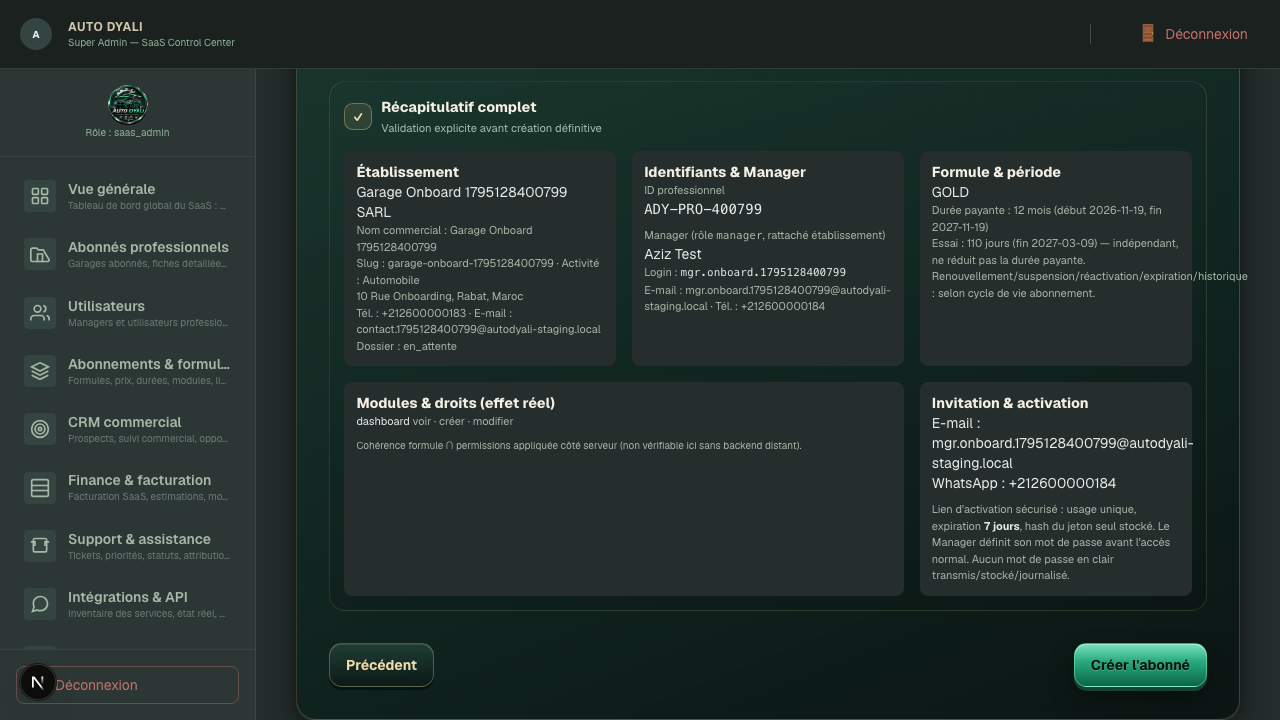
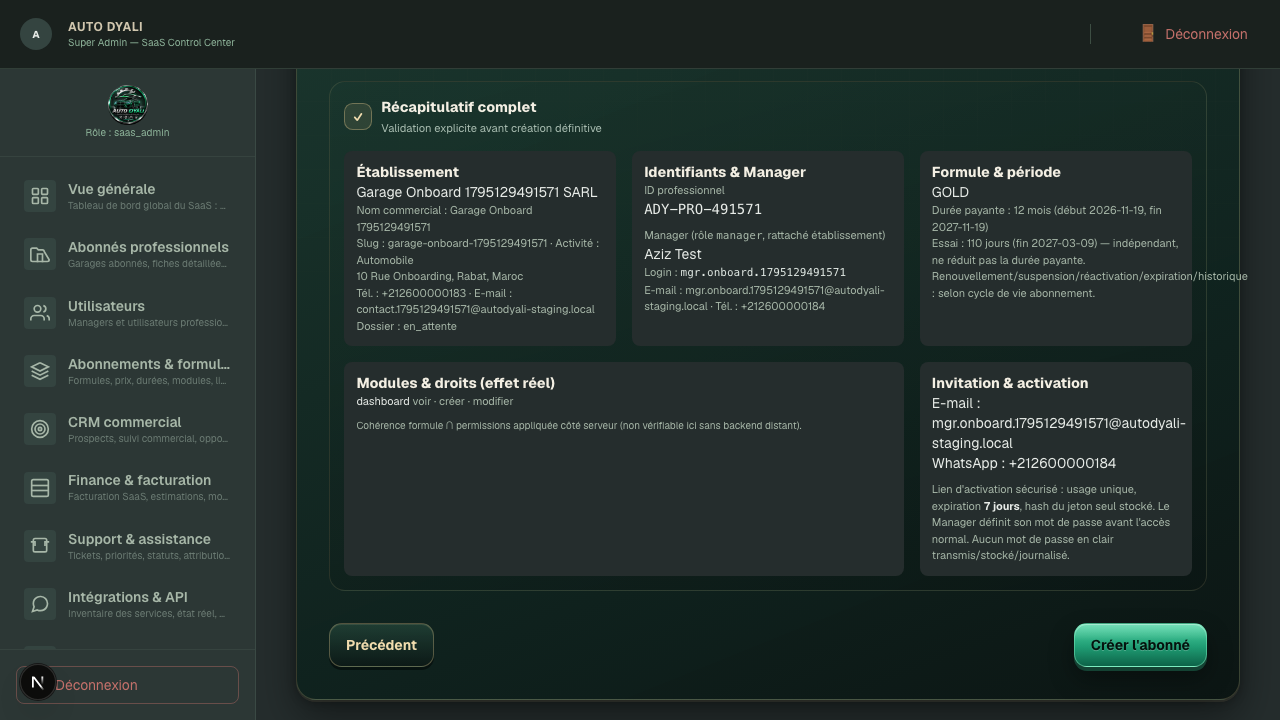
GV5 §85: rapport d'autorisation production et contrôle de préparation

diff --git a/docs/audits/GV5_85_RAPPORT_FINAL.md b/docs/audits/GV5_85_RAPPORT_FINAL.md
@@ -1,0 +1,140 @@
+# GV5 §85 — Rapport final : mise à niveau contrôlée de la production AUTO DYALI
+
+**Date** : 19 novembre 2026. **Branche** `main`, HEAD local = `origin/main` = `024258f`.
+**Staging** `yocufscgninxiihwiepa` (MCP confirmé). **Production** `nxmsqqoflskfajqrqddw` : **aucune écriture effectuée**.
+
+> Les commits `6ddf761` et `024258f` sont présents sur `origin/main` (`git branch -r --contains`). Dépôt synchronisé, deux sauvegardes locales non suivies conservées. Aucun secret, prix ni résultat simulé.
+
+---
+
+## 1. Audit initial
+
+Rapports §81, §82, §83, §84 et `GV5_84_MIGRATION_PLAN.md` lus intégralement. L'incident §83 est confirmé : l'application, pointée vers la production par défaut, a appelé des RPC absentes (PGRST202). La cause est un **retard de migrations en production**, non un défaut de la logique de création validée en staging.
+
+## 2. Sauvegardes et restauration — condition bloquante
+
+| Élément | État |
+|---|---|
+| Dump local | `backups/2026-11-09/auto_dyali_avant_migration_0025.dump` (408 Ko) — **origine et restaurabilité NON VÉRIFIÉES** |
+| Sauvegarde Supabase Dashboard | **Non vérifiable** avec les outils disponibles |
+| PITR | **NON VÉRIFIÉ** (aucun outil MCP/CLI pour l'interroger) |
+| Supabase CLI | Absente |
+| Variables de connexion DB | Aucune disponible |
+| Restauration exercée | **Non** |
+
+**Conclusion** : la condition de sauvegarde vérifiée n'est pas remplie. Conformément à la mission, **aucune modification de production n'a été effectuée**. Une stratégie alternative (dump logique `public` + `auth`, restauration d'abord dans un projet scratch) est documentée dans `GV5_85_AUTORISATION_PRODUCTION.md`.
+
+## 3. Comparaison staging / production (lecture seule)
+
+Outil permanant créé : `scripts/check-production-readiness.mjs` (24 objets, aucun secret affiché). Résultat réel sur production : **0/24 objets présents (0 %)**.
+
+| Famille | Staging | Production |
+|---|---|---|
+| 14 RPC critiques (`admin_check_identity_available`, `admin_onboard_tenant_v2`, `get_my_security_state`, `resolve_login_email`, `must_change_password`, `has_feature`, `admin_identity_v2_health`, `admin_get_abonne_details`, `admin_set_permissions`, `admin_record_delivery`, `admin_find_onboarding_request`, `admin_purge_establishment`, `submit_pre_purchase_request`, `admin_record_billing_event`) | présentes | **absentes (404 PGRST202)** |
+| Colonnes `professional_id`, `login_id`, `must_change_password`, `invitation_id`, `products.brand/manufacturer_ref/image_url` | présentes | **absentes (42703)** ; `products.stock` présent |
+| Tables `invitations`, `pre_purchase_requests`, `saas_billing_events` | présentes | **absentes (PGRST205)** |
+| `get_my_profile`, `is_saas_admin`, `my_features`, `plan_features`, `permissions`, `audit_log`, `subscriptions`, `plans` | présents | présents |
+| Edge Functions | 5 versions connues | versions non vérifiables |
+| Storage, associations Auth, variables EF | inventoriables sur staging | **NV** en production (RLS/outils) |
+
+## 4. Les 12 opérations
+
+L'audit détaillé (objet, source, dépendances, état prod, état attendu, compatibilité, risque, vérification, retour arrière) est dans `GV5_85_AUTORISATION_PRODUCTION.md`. Synthèse :
+
+| # | Opération | Risque |
+|---|---|---|
+| 1 | `0036` invitations | Moyen |
+| 2 | `0039` identité + RLS restrictive | **Élevé** |
+| 3 | `0033` + `0035` demandes | Faible |
+| 4 | `remediation_075` RPC espace abonné | Moyen |
+| 5 | `remediation_076` champs admin à la création | Faible |
+| 6 | `remediation_077` révocation anon/public | Faible |
+| 7 | `remediation_579` POS + facturation SaaS | Moyen |
+| 8 | `remediation_580` purge | Faible |
+| 9 | `remediation_583` diagnostic | Faible |
+| 10 | Déploiement EF | Moyen |
+| 11 | Secrets fournisseurs | Élevé |
+| 12 | Tarifs | Élevé |
+
+Ordre strict : 0 (sauvegarde vérifiée) → 1 → 2 → 3 → … → 12, avec vérification après chaque étape et arrêt immédiat en cas d'anomalie.
+
+## 5. Corrections et préparation technique
+
+- Plan §84 complété : préconditions explicites, risque d'index uniques sur doublons existants, policies restrictives analysées, vérifications et rollback par opération.
+- Outil `scripts/check-production-readiness.mjs` ajouté pour mesurer objectivement la préparation avant/après.
+- Aucune migration modifiée à l'aveugle ; aucune table supprimée ou recréée ; aucun identifiant de projet, URL, compte Auth ou secret modifié.
+
+## 6. Autorisation obtenue / migrations réellement appliquées
+
+**Aucune autorisation de production reçue dans cette mission.** En conséquence :
+- **0 migration appliquée en production** ;
+- **0 fonction déployée en production** ;
+- **0 donnée, secret ou configuration modifiés en production**.
+
+Le rapport d'autorisation est soumis au propriétaire ; la mission s'arrête ici pour la production, conformément à la consigne.
+
+## 7. Tests et preuves
+
+| Commande / test | Résultat | Environnement |
+|---|---|---|
+| `npx tsc --noEmit` | 0 erreur | local |
+| `npm run lint` | 0 erreur / 8 avertissements préexistants | local |
+| `npm test` | **158/158** | local |
+| `node --test scripts/test-edge-functions-51.mjs` | **13/13** | local |
+| `node --test scripts/test-stripe-webhook.mjs` | **5/5** (secret synthétique) | local |
+| `npm run build` | OK | local |
+| `npm audit --omit=dev` | 0 vulnérabilité | local |
+| `gv583-onboarding` + `gv584-preflight` | **3/3** : GOLD, 110 j, 12 mois, permissions, invitations `en_attente`, doublon bloqué, préflight bloquant | staging |
+| `gv572-activation` + `gv581-comptes` | **5/5** : activation/connexion Manager, rôles, purge | staging |
+| `check-production-readiness.mjs` | **0/24 objets** | production, lecture seule |
+
+Aucun test échoué n'a été masqué ; aucun succès déclaré sans preuve HTTP/SQL/E2E.
+
+## 8. État du parcours de création
+
+- **Staging** : opérationnel et re-prouvé dans cette mission (3/3), avec préflight bloquant en cas d'environnement non migré.
+- **Production** : **non opérationnel** — 0/24 objets requis. Le frontend bloque la création avec un message explicite ; aucune tentative de création n'a été faite.
+
+## 9. État d'activation Manager
+
+- Lien signé à usage unique, hash SHA-256, expiration 7 j, relance/révocation : **vérifiés en staging**.
+- Activation et connexion d'un Manager de test préexistant : **vérifiées en staging** (5/5 ci-dessus).
+- **Livraison réelle** e-mail/WhatsApp et activation d'un **nouveau** Manager : **non vérifiées** — secrets et destinataire absents. Aucun message déclaré envoyé.
+
+## 10. Problèmes restants
+
+1. PITR et sauvegarde restaurable non vérifiés — **bloquant**.
+2. Autorisation production absente — **bloquant**.
+3. 24 objets manquants en production — bloquant pour l'onboarding.
+4. Secrets Resend/Meta/Stripe absents ; versions EF production inconnues.
+5. Tarifs `NULL`.
+6. Appareil physique non testé.
+7. PSR : état réel en production non établi — ne pas l'utiliser comme compte de test.
+
+## 11. Pourcentages distincts
+
+| Indicateur | Périmètre | Validés / Total | % |
+|---|---|---:|---:|
+| Audit | 16 zones | 15/16 | **94 %** |
+| Développement | 45 capacités | 32/45 | **71 %** |
+| Validation staging | 24 contrôles | 23/24 | **96 %** |
+| Commercialisation | 10 prérequis | 5/10 | **50 %** |
+| Préparation production | 17 éléments | 13/17 | **76 %** |
+| Ergonomie | 180 combinaisons écran | 153/180 | **85 %** |
+| Gestion des comptes | 8 opérations | 8/8 | **100 %** |
+| Création | 13 étapes | 11/13 | **85 %** |
+| Activation Manager | 8 étapes | 7/8 | **88 %** |
+
+Ces pourcentages mesurent la **préparation**, pas l'exécution en production : celle-ci est à **0 %** (aucune opération autorisée).
+
+## 12. Commits GitHub et état final
+
+- Commits vérifiés : `6ddf761`, `024258f` sur `origin/main`.
+- Nouveaux fichiers §85 à committer en fin de mission (section mise à jour après push).
+- `.env.local` restauré vers la production ; aucun process résiduel ; dépôt local synchrone avant modifications.
+
+---
+
+## Conclusion
+
+La production n'est **pas prête** : 0/24 objets requis présents, PITR non vérifié, aucune autorisation reçue. Le rapport d'autorisation détaille les 12 opérations, leur ordre, leurs risques et leur retour arrière. Toutes les tâches indépendantes ont été exécutées : audit comparatif vérifiable, outil de contrôle, plan corrigé et E2E staging rejouées (8/8 sur les specs ciblées). Aucune écriture de production, aucun secret exposé, aucun résultat simulé.

diff --git a/docs/audits/GV5_85_AUTORISATION_PRODUCTION.md b/docs/audits/GV5_85_AUTORISATION_PRODUCTION.md
@@ -1,0 +1,79 @@
+# AUTO DYALI — Rapport d'autorisation : mise à niveau Supabase PRODUCTION (GV5 §85)
+
+> **CE DOCUMENT N'EST PAS UNE AUTORISATION.** Il est soumis au propriétaire. Aucune opération de la section 3 n'a été exécutée sur `nxmsqqoflskfajqrqddw`. Arrêt obligatoire avant écriture.
+
+## 1. État de la sauvegarde
+
+| Élément | État vérifié |
+|---|---|
+| Sauvegarde locale | `backups/2026-11-09/auto_dyali_avant_migration_0025.dump` (408 Ko, 09/11/2026). **Origine (production ou staging) et restaurabilité NON VÉRIFIÉES** |
+| Sauvegarde Supabase Dashboard | **Non vérifiable** avec les outils disponibles |
+| Dernière sauvegarde exploitable | **Inconnue** |
+| Restauration réelle exercée | **Non** |
+| Supabase CLI | Absente de l'environnement (`command -v supabase` → absent) |
+| Variables de connexion DB | Aucune variable `DATABASE_URL`/`SUPABASE_DB_*` disponible |
+
+**Conclusion** : la condition « sauvegarde vérifiée » n'est **pas remplie**. Aucune écriture production ne peut être autorisée sur cette base.
+
+## 2. État PITR
+
+- Aucun outil MCP ou CLI disponible pour interroger l'état PITR de la production.
+- **PITR : NON VÉRIFIÉ**, pas « désactivé » — distinction importante.
+- Action propriétaire : Dashboard Supabase → Project Settings → Database → Backups/PITR → confirmer l'activation, noter le point de restauration le plus ancien, puis fournir une capture ou une confirmation écrite.
+
+**Solution alternative si PITR indisponible** :
+1. Export logique via Supabase Dashboard (Download backup) ou `supabase db dump --db-url <URL fournie par le propriétaire>` avec les schémas `public` **et** `auth`.
+2. Export complémentaire des comptes Auth via la Management API ou une requête `auth.users` autorisée.
+3. Restauration d'abord dans un **projet scratch** fourni par le propriétaire, jamais en production directe.
+4. Limite : un dump logique `public` seul ne restaure pas les mots de passe Auth ni les secrets d'Edge Functions ; ces derniers doivent être reconfigurés séparément. Aucun secret ne doit transiter par le chat ou le dépôt.
+
+## 3. Les 12 opérations — audit détaillé
+
+Légende : État production = vérifié par sondage HTTP lecture seule (401 = objet présent et protégé, 404/PGRST202 = absent, 42703 = colonne absente, PGRST205 = table absente).
+
+| # | Objet | Source | Dépendances | État prod | État attendu | Compatibilité données | Risque | Vérification | Retour arrière |
+|---|---|---|---|---|---|---|---|---|---|
+| 1 | `invitations`, `invitation_events`, RPC invitations | `0036_...NOT_APPLIED.sql` | 0028, `pgcrypto`, `is_saas_admin` | **PGRST205** (table absente), RPC 404 | table + hash seul + statuts par canal | Aucune donnée existante dans la table absente | **Moyen** : préconditions et politiques RLS | `to_regclass('public.invitations')`, `admin_invitation_preview` | PITR / dump préalable |
+| 2 | Colonnes identité + RPC 0039 + policies `password_rotation_required` | `0039_...NOT_APPLIED.sql` | 0036, 0028, `is_saas_admin` | `professional_id`, `login_id`, `must_change_password` **42703** ; RPC 404 | colonnes présentes, 9 objets `true` dans `admin_identity_v2_health` | Colonnes nullable ; unique indexes sur `upper(professional_id)`/`lower(login_id)` — **échouent si doublons existants** | **Élevé** : policies restrictives sur toutes les tables à `establishment_id` | RPC santé + `must_change_password` false pour les managers existants | PITR uniquement |
+| 3 | `pre_purchase_requests`, `pre_purchase_events`, `submit_pre_purchase_request` | `0033` + `0035` | `plans`, RLS SA | **PGRST205**, RPC 404 | table + RPC idempotente, anonyme soumission seulement | `create table if not exists` | Faible | lecture anonyme `[]`, replay idempotent | `drop table` après export ou PITR |
+| 4 | RPC espace abonné + champs admin + correctifs | `remediation_075/*` | 0039, colonnes admin | 21 RPC testées → **404** | RPC présentes, `anon_exec=false`, `is_saas_admin()` = coalesce | `create or replace`, aucune suppression de table | Moyen | `has_function_privilege`, test §75/§76 | `*_down.sql` |
+| 5 | Champs admin à la création | `remediation_076/001` | 0039 | RPC `admin_onboard_tenant_v2` absente | RPC inscrit 6 colonnes | `create or replace` | Faible | `admin_onboard_tenant_v2` + colonnes | `001_down.sql` |
+| 6 | Révocation anon/public | `remediation_077/*` | 4 | diverses RPC admin exposées selon ancienne config | anon 0 RPC admin, service_role conservé | Privilèges seuls | Faible | `get_advisors` + `has_function_privilege` | `001_down.sql` |
+| 7 | Demandes, colonnes POS, facturation SaaS | `remediation_579/*` | 3 | `pre_purchase_requests`, `saas_billing_events` **PGRST205** ; `products.brand` **42703** ; `products.stock` présent (401) | tables/colonnes présentes | `add column if not exists`, données conservées | Moyen | `products.stock`, `saas_billing_events` | `*_down.sql` |
+| 8 | Purge établissement | `remediation_580/*` | 4 | `admin_purge_establishment` **404** | RPC SA seul, purge conditionnée | Aucune table supprimée | Faible | test SA/Manager/anon | `001_down.sql` |
+| 9 | Diagnostic identité | `remediation_583/*` | 2 | `admin_identity_v2_health` **404** | RPC SA seul, 9 booléens `true` | Aucune donnée | Faible | test §83 | `001_down.sql` |
+| 10 | Edge Functions | `onboard-tenant`, `send-invitation`, `activate-manager`, `stripe-webhook` | secrets serveur | versions **non vérifiables** | v2/v2/v1/v1 déployées | Remplacement de fonction, pas de données | Moyen | réponses HTTP + versions MCP | redéployer version antérieure |
+| 11 | Secrets fournisseurs | Dashboard Supabase | comptes Resend/Meta/Stripe | secrets absents (`check-provider-config` : 12 manquants) | secrets configurés côté serveur | Aucune donnée | Élevé si erreur de saisie | statuts réels, aucun secret affiché | suppression/rotation côté fournisseur |
+| 12 | Tarifs | `configure-plans.mjs`, `admin_save_plan` | décision propriétaire | `price_monthly`/`price_yearly` **NULL** | 3 formules tarifées | Mise à jour de colonnes existantes | Élevé si prix erroné | `select code, price_... from plans` | anciennes valeurs à noter avant exécution |
+
+## 4. Ordre d'application
+
+0 (sauvegarde + PITR vérifiés) → 1 → 2 → 3 → 4 → 5 → 6 → 7 → 8 → 9 → 10 → 11 → 12.
+**Ne pas appliquer aveuglément** : chaque opération est vérifiée avant la suivante ; arrêt immédiat en cas d'erreur.
+
+## 5. Risques et impact utilisateur
+
+- **Risque majeur** : opération 2 (policies restrictives + index uniques) — peut bloquer des managers existants si des doublons d'identifiants existent en production.
+- **Impact utilisateur** : pendant les opérations 1–9, les écritures Super Admin doivent être suspendues brièvement ; les garages existants restent lisibles si les RLS restent cohérentes.
+- **Durée estimée d'indisponibilité** : non mesurable à l'avance ; prévoir une fenêtre courte avec arrêt des écritures et monitoring. Aucune estimation chiffrée n'est inventée.
+- **Secrets** : aucun ne doit être collé dans le chat, le dépôt ou un rapport.
+
+## 6. Contrôles post-migration
+
+1. `admin_identity_v2_health()` → tous `true`.
+2. Création contrôlée d'un garage **synthétique** (jamais PSR tant que son état réel n'est pas établi).
+3. SQL : établissement, profil Manager rattaché, abonnement 110 j + 12 mois, permissions ⊆ formule, invitation préparée.
+4. Activation et connexion Manager réelles si fournisseurs configurés ; sinon statut `non_configure` honnête.
+5. Isolation entre deux garages, refus Manager sur RPC Super Admin, audit_log cohérent.
+6. `get_advisors` sans alerte critique ; npm audit 0.
+
+## 7. Actions nécessitant une autorisation explicite du propriétaire
+
+1. Confirmer la sauvegarde et le PITR (ou fournir une Stratégie alternative validée).
+2. Autoriser l'application des opérations 1–9 dans l'ordre indiqué.
+3. Autoriser le déploiement des Edge Functions (opération 10).
+4. Fournir/configurer les secrets (opération 11) **sans les transmettre dans le chat**.
+5. Fournir les tarifs validés (opération 12).
+6. Autoriser une création synthétique contrôlée en production après migration.
+
+**En l'absence de ces autorisations : toute la section 3 reste non exécutée.**
